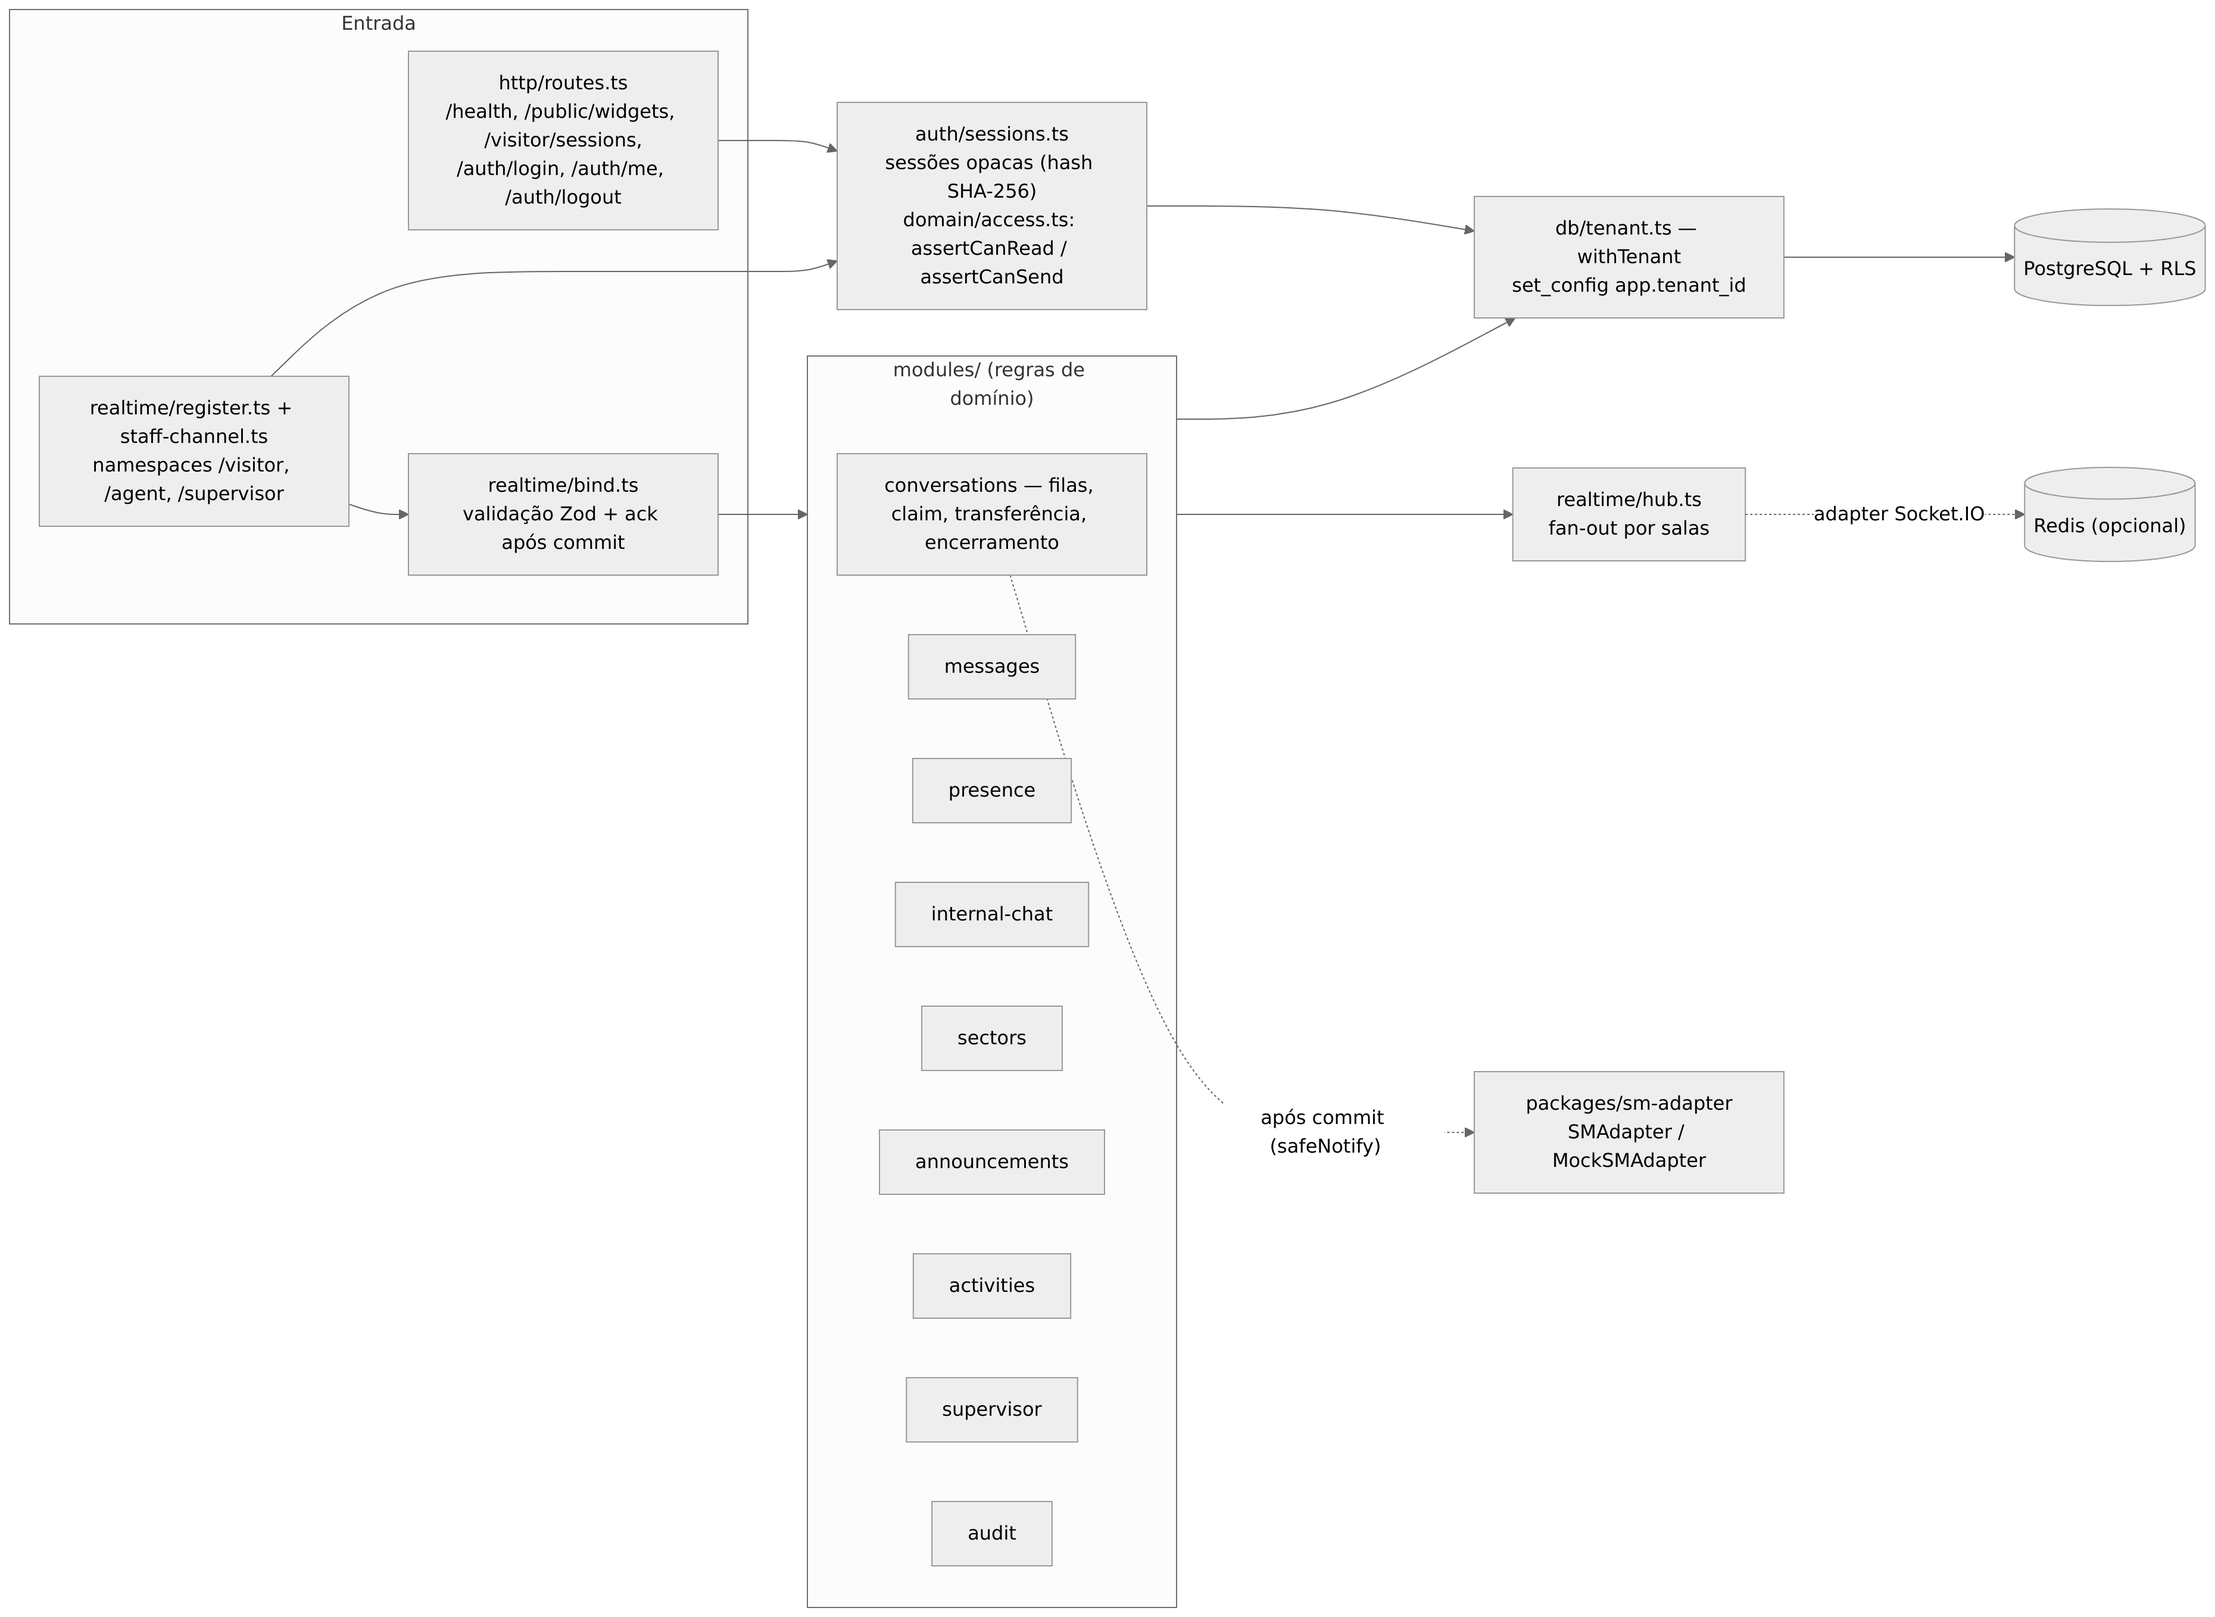
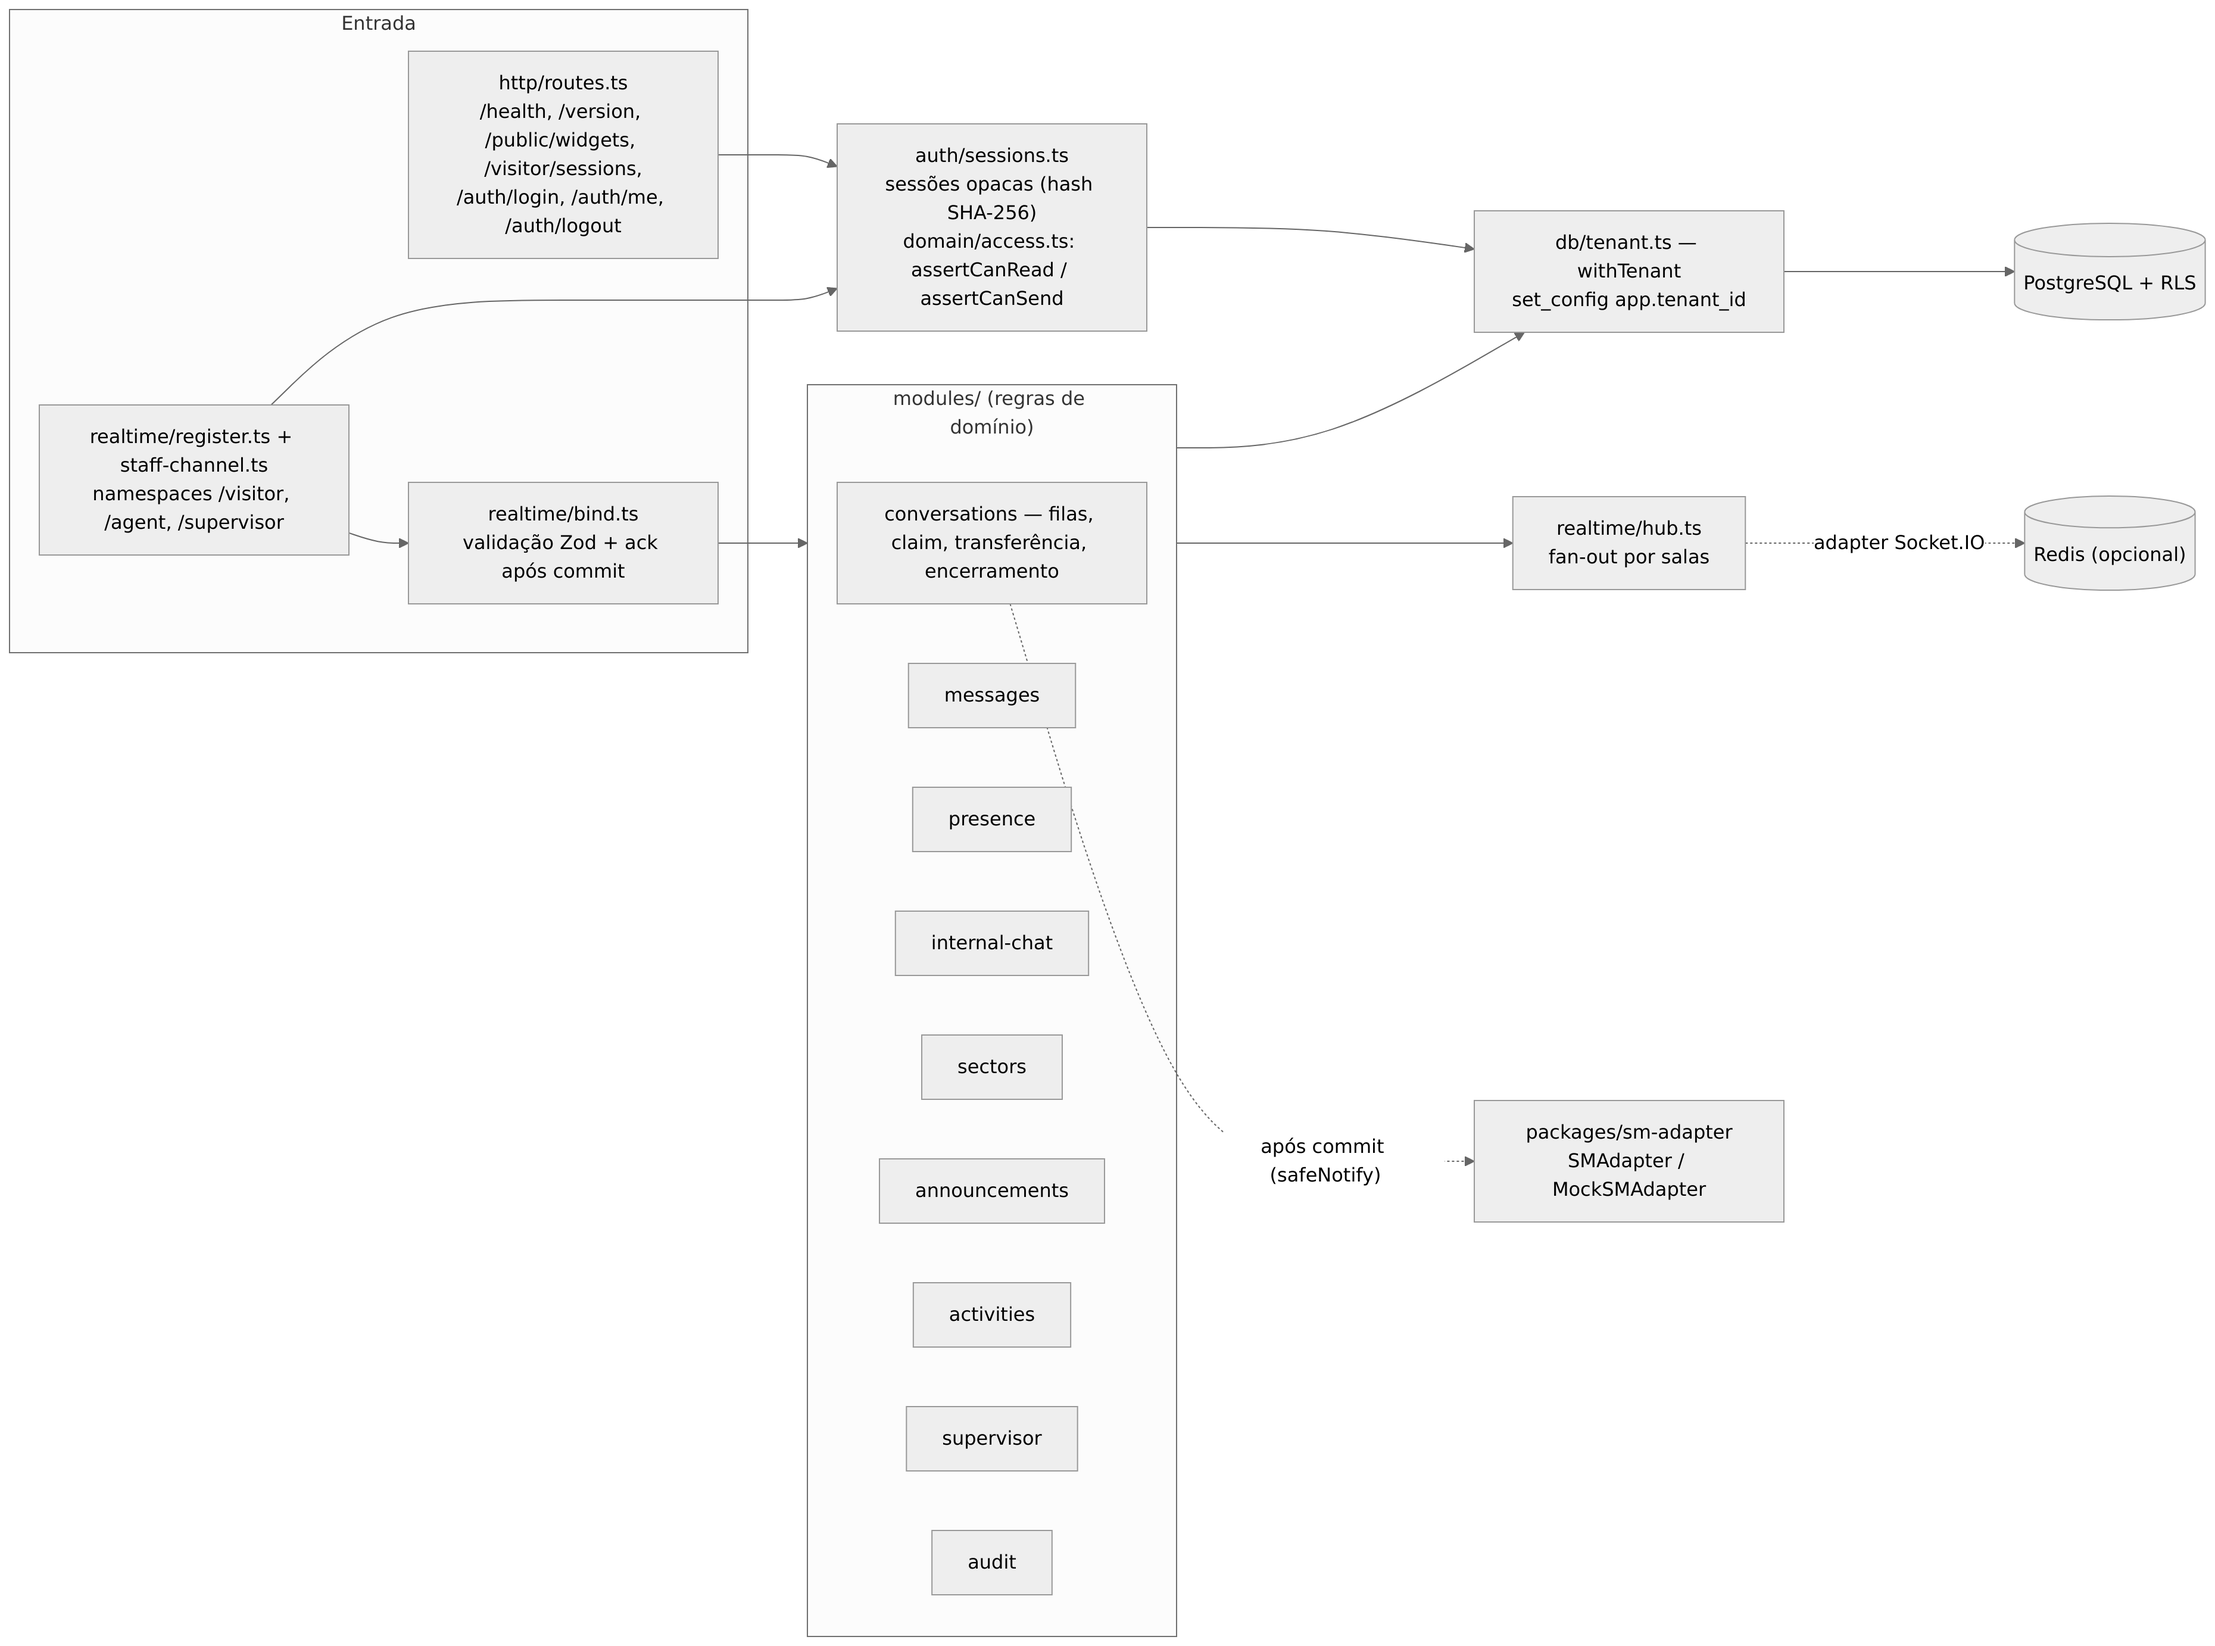
docs: documenta o GET /version

diff --git a/docs/docs-helper/html/implantacao-e-operacao/ambientes.html b/docs/docs-helper/html/implantacao-e-operacao/ambientes.html
@@ -11,6 +11,9 @@
 <h2 id="desenvolvimento-%2F-demonstra%C3%A7%C3%A3o-%E2%80%94-verific%C3%A1vel" tabindex="-1">Desenvolvimento / demonstração — verificável</h2>
 <p><code>docker-compose.yml</code> define quatro serviços: <code>postgres</code> (16-alpine, porta do host 5434), <code>redis</code> (7-alpine, 6379), <code>server</code> (porta 3000, healthcheck em <code>/health</code>) e <code>demo</code> (nginx, 8090, serve <code>infra/demo</code>). Diagrama: infrastructure.</p>
 <p><code>Dockerfile</code>: <code>node:22-bookworm-slim</code>, <code>corepack</code> com pnpm 12.15.0, <code>pnpm install --frozen-lockfile</code>, <code>pnpm build</code>, <code>NODE_ENV=production</code>, porta 3000, <code>CMD pnpm --filter @viavoip/server start</code>.</p>
+<p><code>Dockerfile</code> e <code>docker-compose.hml.yml</code> aceitam as build args <code>GIT_SHA</code> e <code>BUILT_AT</code> (padrão <code>unknown</code>). O servidor as expõe em <code>GET /version</code>. Para que o SHA fique rastreável, rode o build na máquina que tem o checkout:</p>
+<pre><code class="language-bash">GIT_SHA=$(git rev-parse HEAD) BUILT_AT=$(date -u +%FT%TZ) docker compose -f docker-compose.hml.yml up -d --build
+</code></pre>
 <p>O Compose usa credenciais de banco <strong>de desenvolvimento</strong> e <code>SEED=true</code>. Não as use fora do ambiente local.</p>
 <h2 id="vari%C3%A1veis-de-ambiente-(apenas-nomes-e-padr%C3%B5es)" tabindex="-1">Variáveis de ambiente (apenas nomes e padrões)</h2>
 <table>

diff --git a/docs/docs-helper/html/arquitetura/contratos.html b/docs/docs-helper/html/arquitetura/contratos.html
@@ -9,6 +9,8 @@
 <h1 id="contratos" tabindex="-1">Contratos</h1>
 <p>Os schemas vivem em <code>packages/protocol</code> e rejeitam campos desconhecidos.</p>
 <h2 id="http" tabindex="-1">HTTP</h2>
+<p><code>GET /version</code></p>
+<p>Devolve <code>{ sha, builtAt }</code>, lidos de <code>GIT_SHA</code> e <code>BUILT_AT</code> no momento em que o servidor sobe. Sem a variável, o valor é <code>unknown</code>. Não exige sessão. O schema não está em <code>packages/protocol</code>; a rota vive em <code>apps/server/src/http/routes.ts</code>.</p>
 <p><code>GET /public/widgets/:publicId</code></p>
 <p>Devolve nome, filas, cor, logotipo, boas-vindas, se o nome é obrigatório e se o atendimento está aberto. Não cria visitante e não devolve token. O <code>publicId</code> não é credencial.</p>
 <p><code>POST /visitor/sessions</code></p>

diff --git a/docs/deployment/environments.md b/docs/deployment/environments.md
@@ -8,6 +8,12 @@ Somente o que é verificável no repositório (`Dockerfile`, `docker-compose.yml
 
 `Dockerfile`: `node:22-bookworm-slim`, `corepack` com pnpm 12.15.0, `pnpm install --frozen-lockfile`, `pnpm build`, `NODE_ENV=production`, porta 3000, `CMD pnpm --filter @viavoip/server start`.
 
+`Dockerfile` e `docker-compose.hml.yml` aceitam as build args `GIT_SHA` e `BUILT_AT` (padrão `unknown`). O servidor as expõe em `GET /version`. Para que o SHA fique rastreável, rode o build na máquina que tem o checkout:
+
+```bash
+GIT_SHA=$(git rev-parse HEAD) BUILT_AT=$(date -u +%FT%TZ) docker compose -f docker-compose.hml.yml up -d --build
+```
+
 O Compose usa credenciais de banco **de desenvolvimento** e `SEED=true`. Não as use fora do ambiente local.
 
 ## Variáveis de ambiente (apenas nomes e padrões)

diff --git a/docs/contracts.md b/docs/contracts.md
@@ -4,6 +4,10 @@ Os schemas vivem em `packages/protocol` e rejeitam campos desconhecidos.
 
 ## HTTP
 
+`GET /version`
+
+Devolve `{ sha, builtAt }`, lidos de `GIT_SHA` e `BUILT_AT` no momento em que o servidor sobe. Sem a variável, o valor é `unknown`. Não exige sessão. O schema não está em `packages/protocol`; a rota vive em `apps/server/src/http/routes.ts`.
+
 `GET /public/widgets/:publicId`
 
 Devolve nome, filas, cor, logotipo, boas-vindas, se o nome é obrigatório e se o atendimento está aberto. Não cria visitante e não devolve token. O `publicId` não é credencial.
